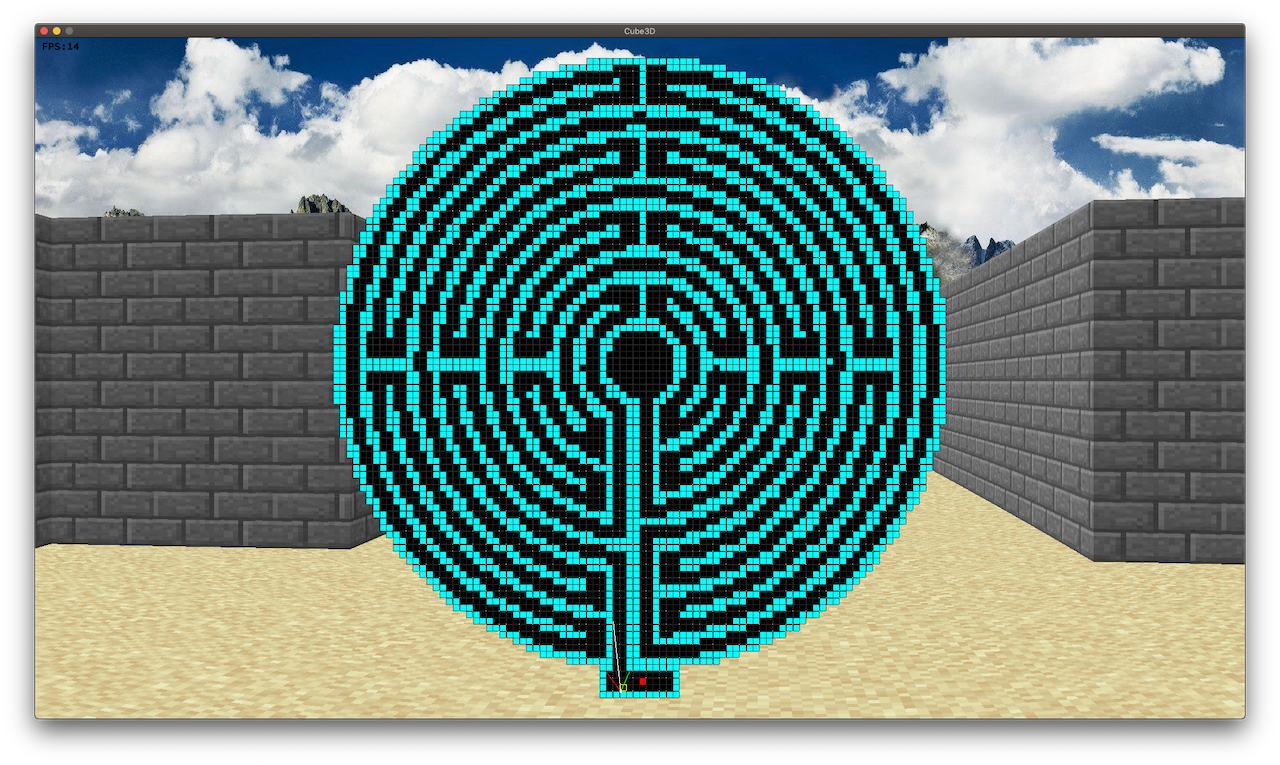
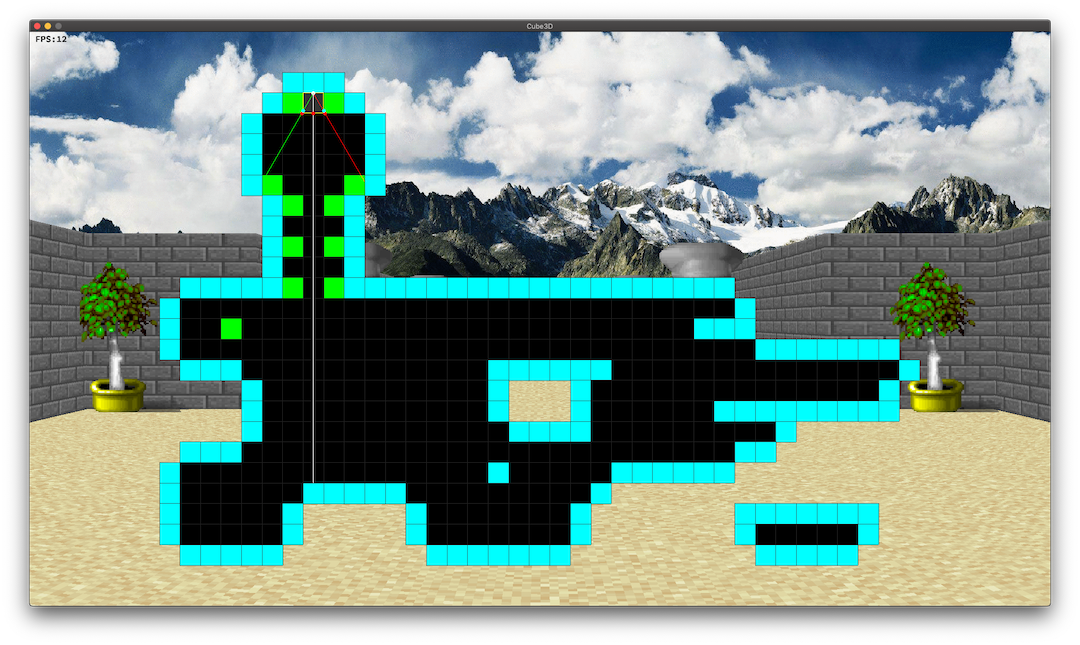
Normed draw_elems and better minimap display

diff --git a/srcs/Map/draw_map.c b/srcs/Map/draw_map.c
@@ -6,7 +6,7 @@
 /*   By: siferrar <siferrar@student.42lyon.fr>      +#+  +:+       +#+        */
 /*                                                +#+#+#+#+#+   +#+           */
 /*   Created: 2020/01/14 22:43:45 by siferrar          #+#    #+#             */
-/*   Updated: 2020/04/20 22:44:19 by siferrar         ###   ########lyon.fr   */
+/*   Updated: 2020/04/29 17:33:15 by siferrar         ###   ########lyon.fr   */
 /*                                                                            */
 /* ************************************************************************** */
 
@@ -89,6 +89,40 @@ void		point_on_map(t_brain *b, int x, int y, int color)
 						(b->map->bloc_size * 0.06) * b->map->scale, 1, b->ctx);
 }
 
+int			get_map_colors(int val)
+{
+	if (val == 0)
+		return(0);
+	else if (val == 1)
+		return(0x00FFFF);
+	else if (val >= 2 && val < 5)
+		return(0x00FF00);
+	else if (val == 'N' - '0' || val == 'E' - '0' || val == 'S' - '0' || val == 'W' - '0')
+		return(0xCCFFFFFF);
+	else
+		return(0xFF00FF);
+}
+
+void		draw_elem(t_brain *b, int disp_x, int disp_y, float scale, int val)
+{
+	b->ctx->color = get_map_colors(val);
+	b->ctx->rect(disp_x, disp_y,
+				b->map->bloc_size * scale + 1,
+				b->map->bloc_size * scale + 1,
+				1,
+				b->ctx);
+	if (b->map->scale > 0.1)
+	{
+		b->ctx->color = 0x222222;
+		b->ctx->rect(disp_x,
+				disp_y,
+				b->map->bloc_size * scale + 1,
+				b->map->bloc_size * scale + 1,
+				0,
+				b->ctx);
+	}
+}
+
 void		draw_elems(t_brain *b, int disp_x, int disp_y, float scale)
 {
 	int y;
@@ -103,48 +137,17 @@ void		draw_elems(t_brain *b, int disp_x, int disp_y, float scale)
 		x = 0;
 		while (x < b->map->width)
 		{
-			val = get_grid(b->map, x, y, 0);
-			if (val >= 0)
-			{
-				if (val == 0)
-					b->ctx->color = 0;
-				else if (val == 1)
-					b->ctx->color = 0x00FFFF;
-				else if (val == 2)
-					b->ctx->color = 0x00FF00;
-				else if (val == 'N' || val == 'E' || val == 'S' || val == 'W')
-				{
-					b->ctx->color = 0xFF00FF;
-				} else
-					b->ctx->color = 0xFF0000;
-				b->ctx->rect((disp_x + (x * (b->map->bloc_size * scale))),
-							disp_y + (y * (b->map->bloc_size * scale)),
-							b->map->bloc_size * scale,
-							b->map->bloc_size * scale,
-							1,
-							b->ctx);
-				if (b->map->scale > 0.1)
-				{
-					b->ctx->color = 0x222222;
-					b->ctx->rect(floor(disp_x + (x * (b->map->bloc_size * scale))),
-								floor(disp_y + (y * (b->map->bloc_size * scale))),
-								b->map->bloc_size * scale,
-								b->map->bloc_size * scale,
-								0,
-								b->ctx);
-				}
-			}
+			if ((val = get_grid(b->map, x, y, 0)) >= 0)
+				draw_elem(b, floor(disp_x + (x * (b->map->bloc_size * scale))),
+				floor(disp_y + (y * (b->map->bloc_size * scale))), scale, val);
 			x++;
-		};
+		}
 		y++;
 	}
 	b->ctx->color = 0xFFFF00;
 	b->ctx->rect(floor(disp_x + (p_pos.x * (b->map->bloc_size * scale))),
-				floor(disp_y + (p_pos.y * (b->map->bloc_size * scale))),
-				b->map->bloc_size * scale,
-				b->map->bloc_size * scale,
-				0,
-				b->ctx);
+			floor(disp_y + (p_pos.y * (b->map->bloc_size * scale))),
+			b->map->bloc_size * scale, b->map->bloc_size * scale, 0,b->ctx);
 }
 
 void	line_on_map(t_brain *b, t_fpoint p1, t_fpoint p2)

diff --git a/includes/Libft/srcs/Conv/ft_str_to_int_tab.c b/includes/Libft/srcs/Conv/ft_str_to_int_tab.c
@@ -3,10 +3,10 @@
 /*                                                        :::      ::::::::   */
 /*   ft_str_to_int_tab.c                                :+:      :+:    :+:   */
 /*                                                    +:+ +:+         +:+     */
-/*   By: siferrar <siferrar@student.le-101.fr>      +#+  +:+       +#+        */
+/*   By: siferrar <siferrar@student.42lyon.fr>      +#+  +:+       +#+        */
 /*                                                +#+#+#+#+#+   +#+           */
 /*   Created: 2020/03/16 08:44:13 by siferrar          #+#    #+#             */
-/*   Updated: 2020/03/16 08:46:57 by siferrar         ###   ########lyon.fr   */
+/*   Updated: 2020/04/29 17:07:40 by siferrar         ###   ########lyon.fr   */
 /*                                                                            */
 /* ************************************************************************** */
 

diff --git a/srcs/Map/map_parsing.c b/srcs/Map/map_parsing.c
@@ -3,10 +3,10 @@
 /*                                                        :::      ::::::::   */
 /*   map_parsing.c                                      :+:      :+:    :+:   */
 /*                                                    +:+ +:+         +:+     */
-/*   By: milosandric <milosandric@student.42lyon    +#+  +:+       +#+        */
+/*   By: siferrar <siferrar@student.42lyon.fr>      +#+  +:+       +#+        */
 /*                                                +#+#+#+#+#+   +#+           */
 /*   Created: 2020/01/14 20:36:43 by siferrar          #+#    #+#             */
-/*   Updated: 2020/04/29 16:01:39 by milosandric      ###   ########lyon.fr   */
+/*   Updated: 2020/04/29 17:35:04 by siferrar         ###   ########lyon.fr   */
 /*                                                                            */
 /* ************************************************************************** */
 
